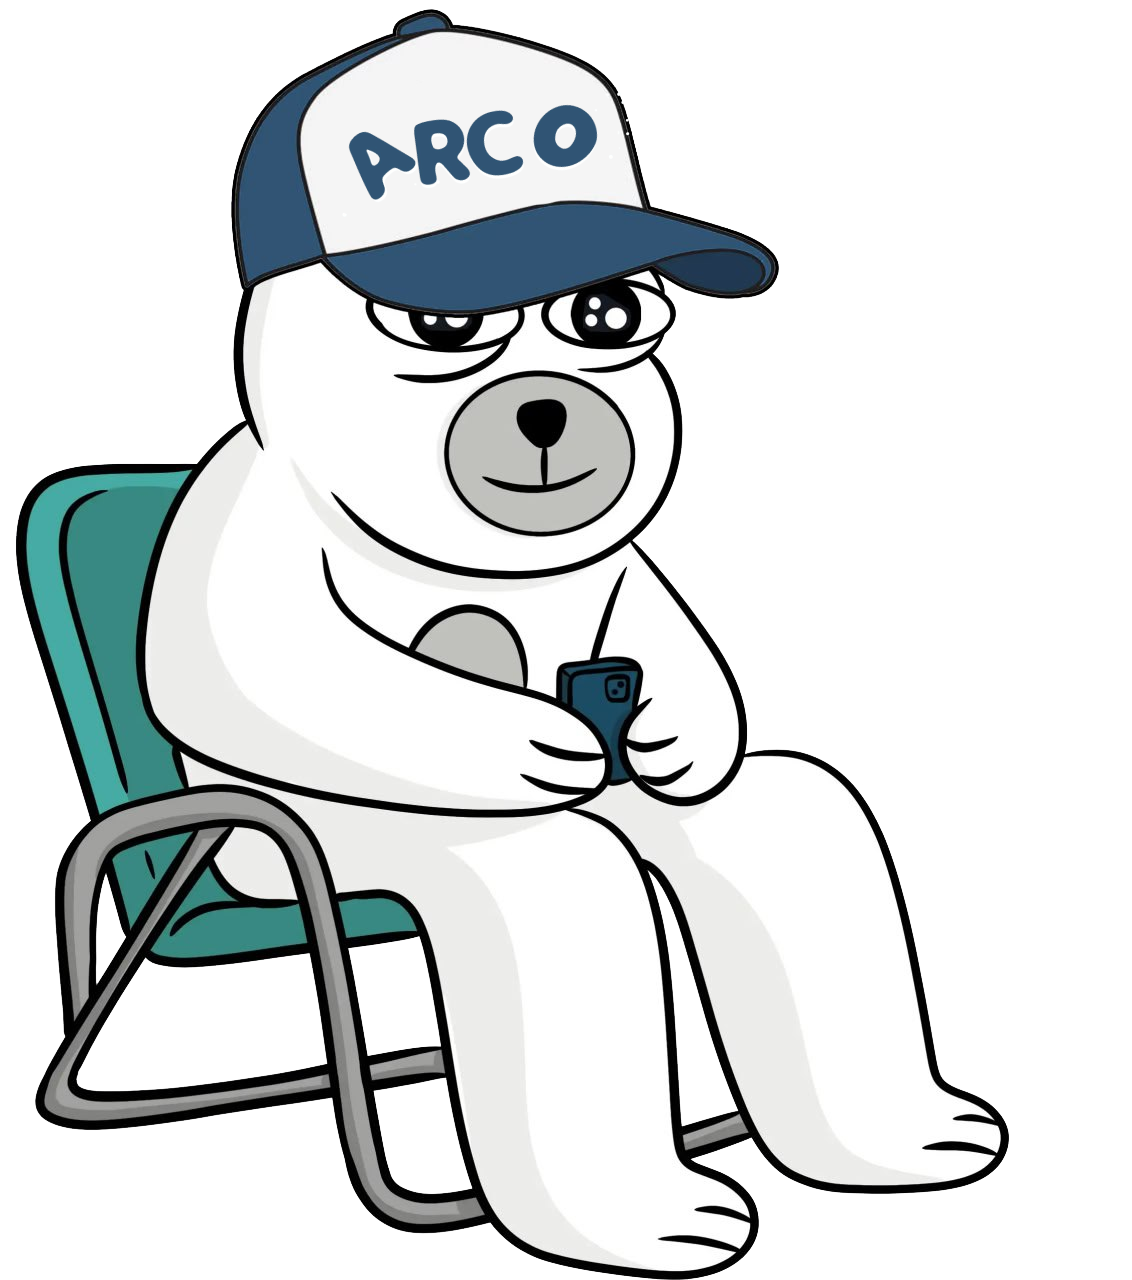
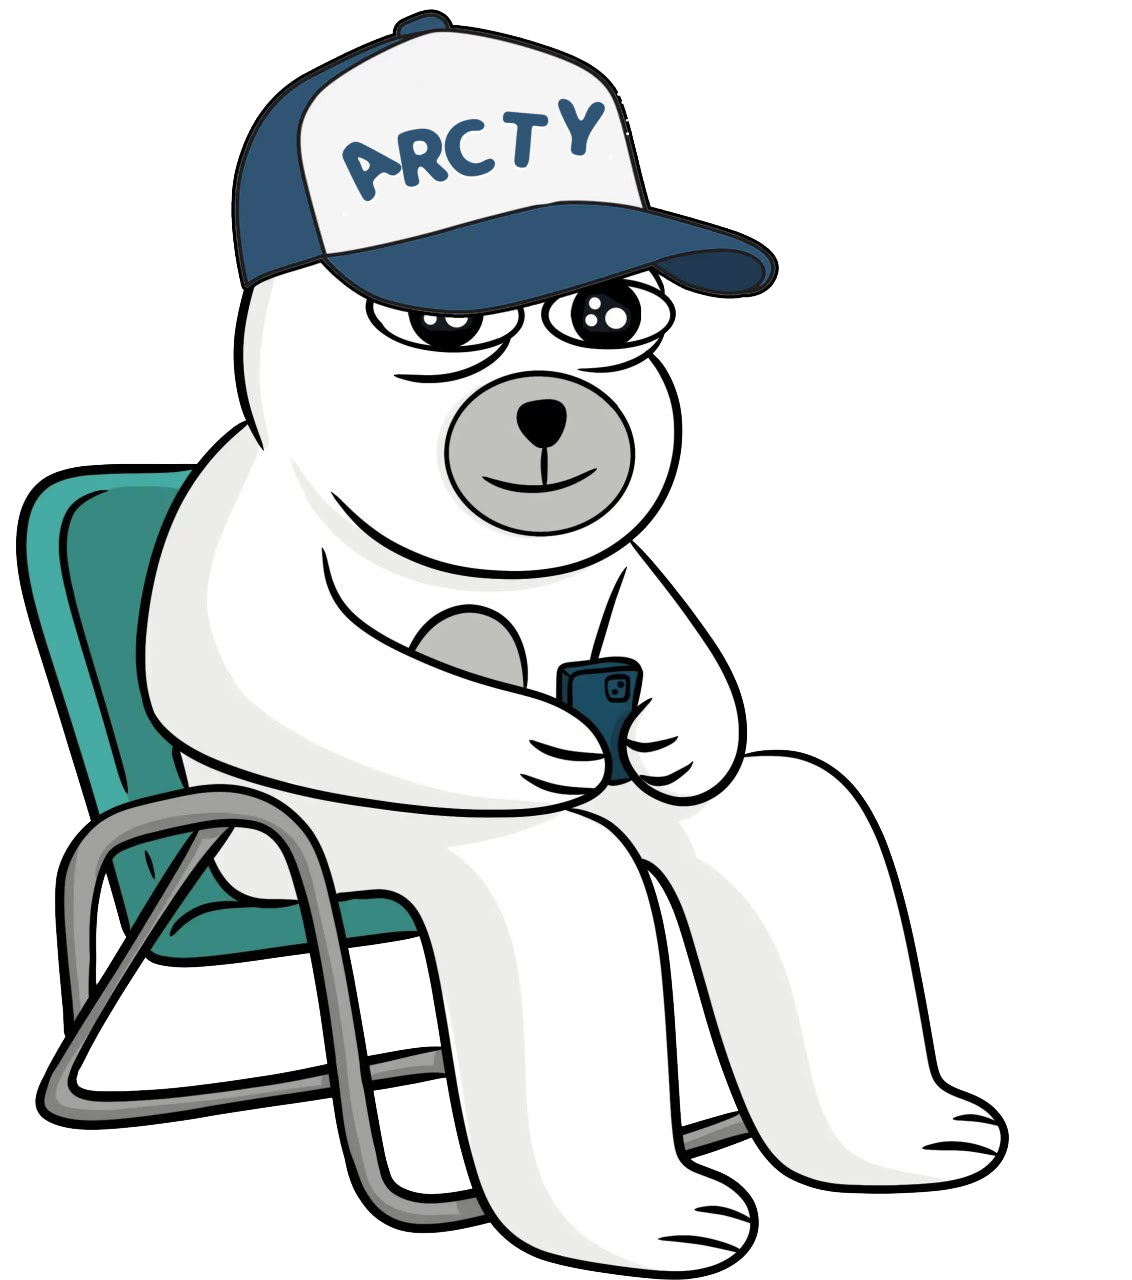
1

Changed region(s): [[0.3092, 0.0625, 0.5565, 0.1562]]

diff --git a/index.html b/index.html
@@ -16,14 +16,14 @@
 		<meta name="distribution" content="global"> 
 		<meta name="robots" content="index,follow"> 
 		<meta name="country" content="US">
-		<meta name="description" content="ARCO is the newest charismatic fluffy ruler of the frozen crypto tundra. This fun, decentralized, community-driven token is built on Solana Chain.">
+		<meta name="description" content="ARCTY is the newest charismatic fluffy ruler of the frozen crypto tundra. This fun, decentralized, community-driven token is built on Solana Chain.">
 		<meta name="google-site-verification" content="">
 		
 		<!-- Open Graph Meta Tags -->
 		<meta property="og:type" content="website">
 		<meta property="og:url" content="">
-		<meta property="og:title" content="ARCO | The Official ARCO Bear on Solanachain">
-		<meta property="og:description" content="ARCO is the newest charismatic fluffy ruler of the frozen crypto tundra. This fun, decentralized, community-driven token is built on Solana Chain.">
+		<meta property="og:title" content="ARCTY | The Official ARCTY Bear on Solanachain">
+		<meta property="og:description" content="ARCTY is the newest charismatic fluffy ruler of the frozen crypto tundra. This fun, decentralized, community-driven token is built on Solana Chain.">
 
 		
 
@@ -37,7 +37,7 @@
 		<meta name="msapplication-TileColor" content="#9c2730">
 		<meta name="theme-color" content="#ffffff">
 		
-		<title>ARCO | The Official Polar Bear on Solanachain</title>
+		<title>ARCTY | The Official Polar Bear on Solanachain</title>
 		<link href="assets/css/include.css" rel="stylesheet">
 		<!-- Google tag (gtag.js) -->
 		<script async src="https://www.googletagmanager.com/gtag/js?id=G-083C66RB80"></script>
@@ -66,14 +66,14 @@
 							<span style="margin-right: 40px">A</span>
 							<span>R</span>
 							<span>C</span>
-							<span>O</span>
-<!--							<span>I </span>-->
+							<span>T</span>
+							<span>Y </span>
 <!--							<span style="rotate: -10deg; margin-left:-20px; margin-right: 10px;">E</span>-->
 <!--							<span>R</span>-->
 
 						</h1>
 						<div class="vstack mx-auto col-12 col-xl-6 milky fs-3 text-center gap-1 lh-base text-blue-4">
-							<span>Hi I'm ARCO</span>
+							<span>Hi I'm ARCTY</span>
 							<span>I'm the coldest, chillest, and funniest bear</span>
 							<span>in the entire SOLArctic. Welcome to my world.</span>
 						</div>
@@ -132,8 +132,8 @@
 				<div class="container py-5 position-relative">
 					<div class="d-flex flex-column col-12 col-lg-8 justify-content-center gap-4 text-center position-relative z-1 py-0 py-md-5 text-blue-4 milky">
 						<h2 class="display-3">A New King Has Risen</h2>
-						<p class="fs-5 lh-base">Meet ARCO, the latest ruler of the icy domains of cryptocurrency, a royal polar bear who's more chilled than the arctic ice and cooler than the other side of the pillow. Born on the vast, frostbitten landscapes of the Solana Chain, this fluffy monarch has swiftly ascended to the throne, not through bloodshed or conquest, but with sheer charisma and an unshakable belief in the power of meme magic.</p>
-						<p class="fs-5 lh-base">This is not your average bear. ARCO's reign is marked by his unorthodox approach to governance; he rules with a gentle paw and a heart as big as his appetite for salmon. In a world where seriousness often overshadows fun, ARCO dares to ask, "Why not both?" He's democratizing the crypto kingdom one belly slide at a time, proving that you can indeed mix business with pleasure and that every bear can have his fish and eat it too.</p>
+						<p class="fs-5 lh-base">Meet ARCTY, the latest ruler of the icy domains of cryptocurrency, a royal polar bear who's more chilled than the arctic ice and cooler than the other side of the pillow. Born on the vast, frostbitten landscapes of the Solana Chain, this fluffy monarch has swiftly ascended to the throne, not through bloodshed or conquest, but with sheer charisma and an unshakable belief in the power of meme magic.</p>
+						<p class="fs-5 lh-base">This is not your average bear. ARCTY's reign is marked by his unorthodox approach to governance; he rules with a gentle paw and a heart as big as his appetite for salmon. In a world where seriousness often overshadows fun, ARCTY dares to ask, "Why not both?" He's democratizing the crypto kingdom one belly slide at a time, proving that you can indeed mix business with pleasure and that every bear can have his fish and eat it too.</p>
 					</div>
 				</div>
 				<div class="baby-pola"></div>
@@ -143,17 +143,17 @@
 					<div class="d-flex flex-column-reverse flex-md-row gap-4">
 						<div class="d-flex flex-column justify-content-center gap-4 col-12 col-md-6">
 							<div class="d-flex flex-column gap-1 text-blue-4">
-								<span class="fs-4 milky lh-base">ARCO on Solanachain</span>
-								<h2 class="milky display-s lh-1 ">OFFICIAL ARCO LINKS</h2>
+								<span class="fs-4 milky lh-base">ARCTY on Solanachain</span>
+								<h2 class="milky display-s lh-1 ">OFFICIAL ARCTY LINKS</h2>
 							</div>
 
 							<div class="d-flex flex-column gap-2">
 								<span class="fs-6 milky fw-bolder text-blue-4">Social &amp; Onchain Data</span>
 								<div class="socials hstack gap-3">
-									<a href="https://x.com/arcocoinsol" target="_blank">
+									<a href="https://x.com/arctycoinsol" target="_blank">
 										<div class="icon twitter rounded-circle"></div>
 									</a>
-									<a href="https://t.me/arcocoinsol" target="_blank">
+									<a href="https://t.me/arctycoinsol" target="_blank">
 										<div class="icon telegram rounded-circle"></div>
 									</a>
 									<a href="#" target="_blank">
@@ -168,7 +168,7 @@
 								<span class="fs-6 milky fw-bolder text-blue-4">Exchanges (MORE TBA)</span>
 								<div class="row row-cols-2 row-cols-lg-3 g-3">
 									<div class="col">
-										<a href="https://pump.fun/cHadeb22hv63yoougKzaz2KBqj6qcfK6TwC4941Uump" target="_blank" class="h-100 btn btn-md btn-light rounded-pill w-100 py-2 px-3">
+										<a href="https://pump.fun/1UP516TBHDgMSXa4Uz7QzVZ8ud4HWUp3mWknBemRump" target="_blank" class="h-100 btn btn-md btn-light rounded-pill w-100 py-2 px-3">
 											<img src="assets/logos/pumpfun.svg" class="w-75 mt-1" alt="uniswap link">
 										</a>
 									</div>
@@ -191,10 +191,10 @@
 							</div-->
 						</div>
 						<div class="col-12 col-md-4 pola-in-phone">
-							<a class="polarmy-buble polarmy-link" href="https://t.me/arcocoinsol"><img src="assets/images/pola-phone-bubble-r.png" class="w-100 " alt="click to join polarmy"></a>
-							<a href="https://t.me/arcocoinsol"><img src="assets/images/pola-phone-r.png" class="w-100 " alt="pola having fun on tg"></a>
-							<a class="polarmy-buble polarmy-link" href="https://t.me/arcocoinsol"><img src="assets/images/pola-phone-bubble-l.png" class="w-100 " alt="click to join polarmy"></a>
-							<a  href="https://t.me/arcocoinsol"><img src="assets/images/pola-phone-l.png" class="w-100 " alt="pola having fun on tg"></a>
+							<a class="polarmy-buble polarmy-link" href="https://t.me/arctycoinsol"><img src="assets/images/pola-phone-bubble-r.png" class="w-100 " alt="click to join polarmy"></a>
+							<a href="https://t.me/arctycoinsol"><img src="assets/images/pola-phone-r.png" class="w-100 " alt="pola having fun on tg"></a>
+							<a class="polarmy-buble polarmy-link" href="https://t.me/arctycoinsol"><img src="assets/images/pola-phone-bubble-l.png" class="w-100 " alt="click to join polarmy"></a>
+							<a  href="https://t.me/arctycoinsol"><img src="assets/images/pola-phone-l.png" class="w-100 " alt="pola having fun on tg"></a>
 						</div>
 					</div>
 					
@@ -220,17 +220,17 @@
 			<section id="tokenomics" class="position-relative bg-blue-4 py-5 snow-cap">
 				<div class="container py-5 position-relative">
 					<div class="vstack gap-4 text-center mb-5 col-12 col-xl-6 mx-auto text-white milky">
-						<h2 class="display-1 shouxietongzhen gradient-txt-1">ARCOnomics</h2>
-						<p class="fs-5 lh-base">Adhering to the ethos of decentralization, $ARCO adopted a strategy to ensure genuine community ownership and nurture growth with steadfast support from the community.</p>
+						<h2 class="display-1 shouxietongzhen gradient-txt-1">ARCTYnomics</h2>
+						<p class="fs-5 lh-base">Adhering to the ethos of decentralization, $ARCTY adopted a strategy to ensure genuine community ownership and nurture growth with steadfast support from the community.</p>
 					</div>
 
 					<div class="d-flex flex-column flex-xl-row disclaimer rounded-4 p-3 border border-4 border-blue-1 shadow gap-3 col-12 col-xl-8 mx-auto mb-4 bg-white milky text-blue-4">
-						<a href="https://pump.fun/cHadeb22hv63yoougKzaz2KBqj6qcfK6TwC4941Uump"><button class="btn btn-lg btn-light px-3">
-							<span class="fw-bold fs-6 text-blue-4">Buy $ARCO</span>
+						<a href="https://pump.fun/1UP516TBHDgMSXa4Uz7QzVZ8ud4HWUp3mWknBemRump"><button class="btn btn-lg btn-light px-3">
+							<span class="fw-bold fs-6 text-blue-4">Buy $ARCTY</span>
 						</button></a>
 						<div class="col-12 col-xl-10 hstack gap-3 justify-content-between rounded-3 border p-1 fs-6">
-							<span class="text-truncate fw-bold ms-3 contact">Contract address: cHadeb22hv63yoougKzaz2KBqj6qcfK6TwC4941Uump</span>
-							<button class="btn btn-md btn-light copy" data-text="cHadeb22hv63yoougKzaz2KBqj6qcfK6TwC4941Uump">
+							<span class="text-truncate fw-bold ms-3 contact">Contract address: 1UP516TBHDgMSXa4Uz7QzVZ8ud4HWUp3mWknBemRump</span>
+							<button class="btn btn-md btn-light copy" data-text="1UP516TBHDgMSXa4Uz7QzVZ8ud4HWUp3mWknBemRump">
 								<i class="bi bi-clipboard"></i>
 							</button>
 						</div>
@@ -303,7 +303,7 @@
 									<img src="assets/images/icons/base.svg" class="w-100" alt="base logo">
 								</div>
 								<h3 class="fw-bolder fs-1 milky text-uppercase lh-1">Secure Solana (BASE ETH)</h3>
-								<p class="fs-6 lh-base milky">Purchase Solanachain Ethereum (BASE), the foundational currency required for transactions on the base network where $ARCO operates. BASE ETH acts as the "gas" for transactions, including buying $ARCO.</p>
+								<p class="fs-6 lh-base milky">Purchase Solanachain Ethereum (BASE), the foundational currency required for transactions on the base network where $ARCTY operates. BASE ETH acts as the "gas" for transactions, including buying $ARCTY.</p>
 							</div>
 						</div>
 						<div class="col">
@@ -311,8 +311,8 @@
 								<div class="col-4 col-md-2">
 									<img src="assets/images/pola-5.webp" class="w-100" alt="buy pola">
 								</div>
-								<h3 class="fw-bolder fs-1 milky text-uppercase lh-1">Buy $ARCO</h3>
-								<p class="fs-6 lh-base milky">Use your newly acquired BASE ETH to purchase $ARCO tokens through a cryptocurrency exchange or decentralized exchange platform that lists $ARCO.</p>
+								<h3 class="fw-bolder fs-1 milky text-uppercase lh-1">Buy $ARCTY</h3>
+								<p class="fs-6 lh-base milky">Use your newly acquired BASE ETH to purchase $ARCTY tokens through a cryptocurrency exchange or decentralized exchange platform that lists $ARCTY.</p>
 							</div>
 						</div>
 						<div class="col">
@@ -321,7 +321,7 @@
 									<img src="assets/images/icons/crypto-wallet.svg" class="w-100" alt="wallet logo">
 								</div>
 								<h3 class="fw-bolder fs-1 milky text-uppercase lh-1">Add To Your Wallet</h3>
-								<p class="fs-6 lh-base milky">Import $ARCO tokens into your MetaMask wallet by adding the pola token's contract address. This allows you to view and manage your $ARCO holdings directly within MetaMask.</p>
+								<p class="fs-6 lh-base milky">Import $ARCTY tokens into your MetaMask wallet by adding the pola token's contract address. This allows you to view and manage your $ARCTY holdings directly within MetaMask.</p>
 							</div>
 						</div>
 					</div>
@@ -339,8 +339,8 @@
 					
 						<img src="assets/images/VPN-Logo.svg" class="vpn-logo" alt="pola vpn logo">
 						
-						<h2 class="text-nowrap milky display-s lh-1">ARCO VPN</h2>
-						<span class="text-center fs-6 lh-base milky">ARCOVPN is the very first memecoin to have this feature. it is your gateway to a secure and unrestricted online experience, designed with your privacy in mind. Whether you're browsing, streaming, or working remotely, ARCOVPN ensures your data stays protected and your connections remain anonymous.</span>
+						<h2 class="text-nowrap milky display-s lh-1">ARCTY VPN</h2>
+						<span class="text-center fs-6 lh-base milky">ARCTYVPN is the very first memecoin to have this feature. it is your gateway to a secure and unrestricted online experience, designed with your privacy in mind. Whether you're browsing, streaming, or working remotely, ARCTYVPN ensures your data stays protected and your connections remain anonymous.</span>
 						<div class="vpn-button-container" >
 							<button type="button" id="openISOApp" class="vpn-button border btn btn-light rounded-pill milky py-4 p-5 hstack gap-3 justify-content-center w-48">
 								<span class="fw-bolder fs-4">Android App soon</span>
@@ -397,10 +397,10 @@
 								<img src="assets/images/nfts/10.webp" alt="pola nft">
 							</div>
 						</div>
-						<h2 class="display-s lh-1 milky text-blue-4">ARCO NFT</h2>
+						<h2 class="display-s lh-1 milky text-blue-4">ARCTY NFT</h2>
 						<div class="vstack gap-3 fs-6 fw-normal lh-base text-dark text-opacity-75">
-							<p>Explore ARCO NFT, an enchanting collection of 5,000 NFTs, released on Solana drawing inspiration from a cherished polar bear, these NFTs capture the essence and spirit of a unique polar bear-inspired theme.</p>
-							<p>Owning a ARCO NFT connects you to the dynamic community surrounding this theme, signifying your appreciation and embrace of the unique culture these digital assets symbolize.</p>
+							<p>Explore ARCTY NFT, an enchanting collection of 5,000 NFTs, released on Solana drawing inspiration from a cherished polar bear, these NFTs capture the essence and spirit of a unique polar bear-inspired theme.</p>
+							<p>Owning a ARCTY NFT connects you to the dynamic community surrounding this theme, signifying your appreciation and embrace of the unique culture these digital assets symbolize.</p>
 						</div>
 						<div>
 							<span class="fw-bold fw-bold py-2 rounded-pill">Collection Coming Soon</span>
@@ -417,14 +417,14 @@
 							<div class="d-flex flex-column gap-1 text-blue-4">
 								<span class="fs-4 milky">Ice Cream Products</span>
 								<div class="hstack">
-									<h2 id="data-title" class="text-nowrap milky display-s lh-1">ARCOPops</h2>
+									<h2 id="data-title" class="text-nowrap milky display-s lh-1">ARCTYPops</h2>
 									<span class="fs-2 fw-bold lh-1">ⓒ</span>
 								</div>
-								<span id="data-description" class="fs-6 lh-base milky">ARCO Pops brings a refreshing twist to your favorite frozen treat! Our ice creams are handcrafted with natural ingredients, offering a burst of flavors that are as unique as they are delicious. From the classic creamy delights to exotic fruit-filled wonders, each ARCO Pop is designed to provide a blissful escape into a world of sweet, frosty pleasure.</span>
+								<span id="data-description" class="fs-6 lh-base milky">ARCTY Pops brings a refreshing twist to your favorite frozen treat! Our ice creams are handcrafted with natural ingredients, offering a burst of flavors that are as unique as they are delicious. From the classic creamy delights to exotic fruit-filled wonders, each ARCTY Pop is designed to provide a blissful escape into a world of sweet, frosty pleasure.</span>
 							</div>
 
 							<div class="d-flex flex-column gap-4">
-								<span class="fs-3 milky text-blue-4">ARCOPops Flavors</span>
+								<span class="fs-3 milky text-blue-4">ARCTYPops Flavors</span>
 								<div class="row row-cols-3 row-cols-md-5 g-3 ice-creams">
 																		<div data-id="1" class="col data-source">
 										<a role="button" data-image="assets/flavors/1.webp" class="vstack h-100 rounded-4 p-3 gap-3 text-center">
@@ -493,7 +493,7 @@
 								<span class="fw-bold fs-6">Legal Disclaimer</span>
 								<i class="bi bi-arrow-down-circle-fill"></i>
 							</a>
-							<p id="legal" class="p-3 fs-7 lh-base d-none text-white">The content on the ARCO Token website is not meant to be understood as investment, financial, trading, or any form of advice, and should not be interpreted as such. ARCO Token does not suggest that any should be bought, sold, or held by you. It is important to perform your own thorough research and consult with your financial advisor prior to making any investment decisions. By acquiring ARCO Token, you acknowledge that you are not obtaining a security or investment and you agree to absolve ARCO Token of any responsibility for any losses or taxes you may face. Additionally, you accept that ARCO Token is offered "as is" without any obligation for support or services. Expectations from ARCO Token should be none. Although ARCO Token is designed for social networking and is not a registered digital currency, it is highly advised that individuals in locations where is banned by the government refrain from purchasing it, as ARCO Token cannot guarantee adherence to the legal requirements of your region. Always ensure your actions are in full compliance with local laws and regulations before making any purchases.</p>
+							<p id="legal" class="p-3 fs-7 lh-base d-none text-white">The content on the ARCTY Token website is not meant to be understood as investment, financial, trading, or any form of advice, and should not be interpreted as such. ARCTY Token does not suggest that any should be bought, sold, or held by you. It is important to perform your own thorough research and consult with your financial advisor prior to making any investment decisions. By acquiring ARCTY Token, you acknowledge that you are not obtaining a security or investment and you agree to absolve ARCTY Token of any responsibility for any losses or taxes you may face. Additionally, you accept that ARCTY Token is offered "as is" without any obligation for support or services. Expectations from ARCTY Token should be none. Although ARCTY Token is designed for social networking and is not a registered digital currency, it is highly advised that individuals in locations where is banned by the government refrain from purchasing it, as ARCTY Token cannot guarantee adherence to the legal requirements of your region. Always ensure your actions are in full compliance with local laws and regulations before making any purchases.</p>
 						</div>
 
 						<div class="vstack disclaimer rounded-4 shadow-sm">
@@ -506,11 +506,11 @@
 
 						<div class="d-flex flex-column flex-xl-row disclaimer rounded-4 p-3 shadow gap-3">
 							<button class="btn btn-lg btn-light px-3">
-								<a class="fw-bold fs-6 text-nowrap text-black" href="https://pump.fun/cHadeb22hv63yoougKzaz2KBqj6qcfK6TwC4941Uump" target="_blank">Buy $ARCO</a>
+								<a class="fw-bold fs-6 text-nowrap text-black" href="https://pump.fun/1UP516TBHDgMSXa4Uz7QzVZ8ud4HWUp3mWknBemRump" target="_blank">Buy $ARCTY</a>
 							</button>
 							<div class="col-12 col-xl-10 text-white hstack gap-3 justify-content-between rounded-3 border p-1 fs-6">
-								<span class="text-truncate fw-bold ms-3 contact">Contract address: cHadeb22hv63yoougKzaz2KBqj6qcfK6TwC4941Uump</span>
-								<button class="btn btn-md btn-light copy" data-text="cHadeb22hv63yoougKzaz2KBqj6qcfK6TwC4941Uump">
+								<span class="text-truncate fw-bold ms-3 contact">Contract address: 1UP516TBHDgMSXa4Uz7QzVZ8ud4HWUp3mWknBemRump</span>
+								<button class="btn btn-md btn-light copy" data-text="1UP516TBHDgMSXa4Uz7QzVZ8ud4HWUp3mWknBemRump">
 									<i class="bi bi-clipboard"></i>
 								</button>
 							</div>
@@ -520,10 +520,10 @@
 							<div class="col-12 col-md-4">
 								<div class="vstack gap-3">
 									<img src="assets/logos/pola.svg" class="col-8" alt="pola logo">
-									<small class="d-block mb-3">Collect, create, and engage with ARCO!</small>
+									<small class="d-block mb-3">Collect, create, and engage with ARCTY!</small>
 									<div class="hstack gap-4">
-										<a href="https://x.com/arcocoinsol" target="_blank" class="fs-4"><i class="bi bi-twitter"></i></a>
-										<a href="https://t.me/arcocoinsol" target="_blank" class="fs-4"><i class="bi bi-telegram"></i></a>
+										<a href="https://x.com/arctycoinsol" target="_blank" class="fs-4"><i class="bi bi-twitter"></i></a>
+										<a href="https://t.me/arctycoinsol" target="_blank" class="fs-4"><i class="bi bi-telegram"></i></a>
 									</div>
 								</div>
 							</div>
@@ -537,13 +537,13 @@
 		<div class="menu text-nowrap rounded-pill position-fixed bottom-0 z-3 bg-white border border-4 shadow d-none d-lg-block">
 			<div class="menu-list hstack gap-1">
 								<a href="#home" class="d-none d-md-block btn rounded-pill active.">Home</a>
-								<a href="#about" class="d-none d-md-block btn rounded-pill">About ARCO</a>
+								<a href="#about" class="d-none d-md-block btn rounded-pill">About ARCTY</a>
 								<a href="#links" class="d-none d-md-block btn rounded-pill">Ecosystem</a>
 								<a href="#tokenomics" class="d-none d-md-block btn rounded-pill">Tokenomics</a>
 
 								<a href="#vpn" class="d-none d-md-block btn rounded-pill">VPN</a>
 								<a href="#nft" class="d-none d-md-block btn rounded-pill">NFT</a>
-								<a href="#popsicles" class="d-none d-md-block btn rounded-pill">ARCOPops</a>
+								<a href="#popsicles" class="d-none d-md-block btn rounded-pill">ARCTYPops</a>
 								<a href="#" class="d-block d-md-none hamburger-menu">
 					<div></div>
 					<div></div>
